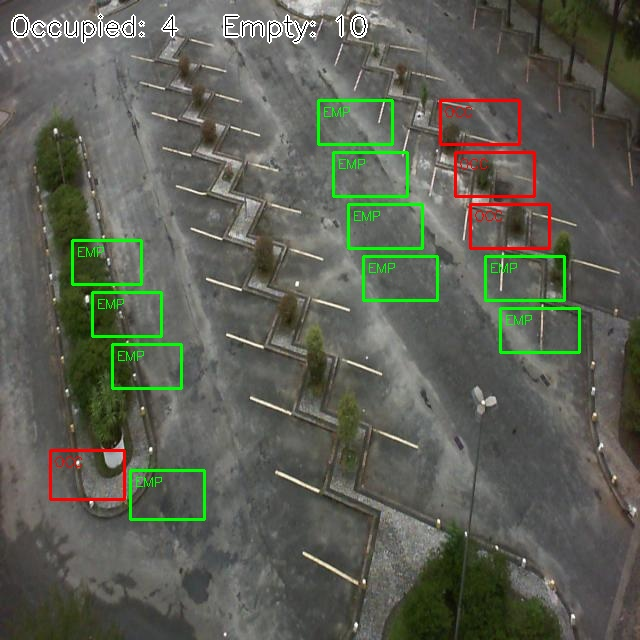
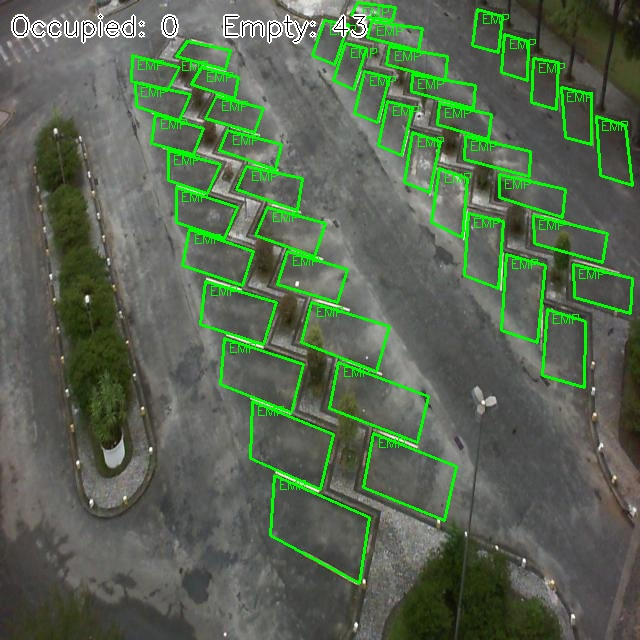
added new project: label tool to manually draw parking spots and output coordinates for hard coding the space coordinates in parking.cpp. updated ParkingSpace structure to Point for iregular rectangles.

diff --git a/label_tool/label_tool.cpp b/label_tool/label_tool.cpp
@@ -1,0 +1,110 @@
+#include <opencv2/opencv.hpp>
+#include <iostream>
+#include <vector>
+
+struct State {
+    cv::Mat display;
+    cv::Mat original;
+    std::vector<std::vector<cv::Point>> polys;  // completed spaces
+    std::vector<cv::Point> current;             // corners clicked so far
+};
+
+void redraw(State* s) {
+    s->display = s->original.clone();
+
+    // Instructions
+    cv::putText(s->display, "Click 4 corners per space (any order, go around the shape)",
+        { 8, 20 }, cv::FONT_HERSHEY_SIMPLEX, 0.5, { 255,255,255 }, 2);
+    cv::putText(s->display, "U = undo last space  |  S = print code  |  ESC = quit",
+        { 8, 40 }, cv::FONT_HERSHEY_SIMPLEX, 0.45, { 200,200,200 }, 1);
+
+    // Completed polys
+    for (int i = 0; i < (int)s->polys.size(); i++) {
+        cv::polylines(s->display, s->polys[i], true, { 0,255,0 }, 2);
+        cv::putText(s->display, std::to_string(i + 1),
+            { s->polys[i][0].x + 3, s->polys[i][0].y + 14 },
+            cv::FONT_HERSHEY_SIMPLEX, 0.45, { 0,255,0 }, 1);
+    }
+
+    // In-progress corners
+    for (int i = 0; i < (int)s->current.size(); i++) {
+        cv::circle(s->display, s->current[i], 4, { 255,255,0 }, -1);
+        if (i > 0)
+            cv::line(s->display, s->current[i - 1], s->current[i], { 255,255,0 }, 1);
+    }
+
+    cv::imshow("Label Tool", s->display);
+}
+
+void onMouse(int event, int x, int y, int, void* userdata) {
+    State* s = reinterpret_cast<State*>(userdata);
+
+    if (event == cv::EVENT_LBUTTONDOWN) {
+        s->current.push_back({ x, y });
+
+        if (s->current.size() == 4) {
+            s->polys.push_back(s->current);
+            s->current.clear();
+        }
+        redraw(s);
+    }
+
+    // Rubber band: show line from last clicked point to mouse
+    if (event == cv::EVENT_MOUSEMOVE && !s->current.empty()) {
+        redraw(s);
+        cv::line(s->display,
+            s->current.back(), { x, y },
+            { 255,255,0 }, 1);
+        cv::imshow("Label Tool", s->display);
+    }
+}
+
+int main(int argc, char* argv[]) {
+    if (argc < 2) {
+        std::cerr << "Usage: label_tool.exe <empty_lot_image>" << std::endl;
+        return 1;
+    }
+
+    State s;
+    s.original = cv::imread(argv[1]);
+    if (s.original.empty()) {
+        std::cerr << "Could not load: " << argv[1] << std::endl;
+        return 1;
+    }
+
+    cv::namedWindow("Label Tool");
+    cv::setMouseCallback("Label Tool", onMouse, &s);
+    redraw(&s);
+
+    while (true) {
+        int key = cv::waitKey(20);
+        if (key == 27) break;  // ESC
+
+        if (key == 'u' || key == 'U') {
+            if (!s.current.empty()) {
+                s.current.pop_back();   // undo last corner mid-polygon
+            }
+            else if (!s.polys.empty()) {
+                s.polys.pop_back();     // undo last completed polygon
+            }
+            redraw(&s);
+        }
+
+        if (key == 's' || key == 'S') {
+            std::cout << "\n// --- paste into parking.cpp ---\n";
+            std::cout << "std::vector<ParkingSpace> spaces = {\n";
+            for (const auto& poly : s.polys) {
+                std::cout << "    {{"
+                    << "{" << poly[0].x << "," << poly[0].y << "},"
+                    << "{" << poly[1].x << "," << poly[1].y << "},"
+                    << "{" << poly[2].x << "," << poly[2].y << "},"
+                    << "{" << poly[3].x << "," << poly[3].y << "}"
+                    << "}, false},\n";
+            }
+            std::cout << "};\n";
+            std::cout << "// " << s.polys.size() << " spaces total\n";
+        }
+    }
+
+    return 0;
+}

diff --git a/Project/parking.cpp b/Project/parking.cpp
@@ -19,7 +19,12 @@ static std::vector<ParkingSpace> getROIs_UFPR04() {
     std::vector<ParkingSpace> spaces;
     for (int y : ys)
         for (int x : xs)
-            spaces.push_back({ cv::Rect(x, y, w, h), false });
+            spaces.push_back({ {
+                {x,     y},
+                {x + w,   y},
+                {x + w,   y + h},
+                {x,     y + h}
+            }, false });
     return spaces;
 }
 
@@ -31,23 +36,57 @@ static std::vector<ParkingSpace> getROIs_UFPR04() {
 // Expect some mis-alignment — tune x/y/w/h against the actual images.
 // ---------------------------------------------------------------------------
 static std::vector<ParkingSpace> getROIs_PUCPR() {
-    std::vector<cv::Rect> rects = {
-        // Right column (diagonal spaces, stepping diagonally down-left)
-        cv::Rect(440, 100, 80, 45), cv::Rect(455, 152, 80, 45),
-        cv::Rect(470, 204, 80, 45), cv::Rect(485, 256, 80, 45),
-        cv::Rect(500, 308, 80, 45),
-        // Centre-right column
-        cv::Rect(318, 100, 75, 45), cv::Rect(333, 152, 75, 45),
-        cv::Rect(348, 204, 75, 45), cv::Rect(363, 256, 75, 45),
-        // Left-side lower column
-        cv::Rect(72, 240, 70, 45),  cv::Rect(92,  292, 70, 45),
-        cv::Rect(112, 344, 70, 45), cv::Rect(50,  450, 75, 50),
-        cv::Rect(130, 470, 75, 50),
+    std::vector<ParkingSpace> polys = {
+    {{{132,55},{179,67},{167,90},{131,81}}, false},
+    {{{135,82},{190,94},{179,120},{136,106}}, false},
+    {{{155,114},{203,128},{193,154},{151,143}}, false},
+    {{{168,150},{220,164},{207,193},{168,180}}, false},
+    {{{176,187},{237,207},{224,238},{176,222}}, false},
+    {{{189,229},{253,251},{242,285},{182,265}}, false},
+    {{{205,281},{276,302},{263,344},{200,324}}, false},
+    {{{224,338},{303,364},{291,412},{220,384}}, false},
+    {{{252,401},{333,434},{320,489},{250,458}}, false},
+    {{{274,475},{369,517},{359,583},{270,535}}, false},
+    {{{176,56},{187,41},{230,50},{225,69}}, false},
+    {{{201,67},{238,77},{234,98},{191,84}}, false},
+    {{{216,96},{263,108},{254,132},{205,118}}, false},
+    {{{227,130},{281,144},{275,169},{219,150}}, false},
+    {{{246,166},{302,178},{297,210},{236,189}}, false},
+    {{{267,207},{325,223},{314,256},{255,235}}, false},
+    {{{287,251},{347,269},{337,302},{277,284}}, false},
+    {{{311,302},{389,326},{376,371},{301,342}}, false},
+    {{{338,362},{428,396},{417,442},{329,408}}, false},
+    {{{373,433},{456,466},{444,520},{363,487}}, false},
+    {{{324,20},{348,24},{334,64},{312,55}}, false},
+    {{{345,43},{366,48},{353,89},{333,80}}, false},
+    {{{364,71},{389,77},{377,122},{354,113}}, false},
+    {{{387,101},{412,107},{401,155},{378,145}}, false},
+    {{{412,132},{440,141},{429,192},{404,182}}, false},
+    {{{439,168},{467,178},{462,237},{431,222}}, false},
+    {{{468,213},{503,221},{498,288},{464,275}}, false},
+    {{{506,254},{545,265},{537,342},{501,330}}, false},
+    {{{547,309},{585,321},{584,387},{542,375}}, false},
+    {{{357,2},{395,7},{392,20},{351,15}}, false},
+    {{{371,21},{422,28},{418,50},{367,37}}, false},
+    {{{389,46},{447,56},{445,80},{386,64}}, false},
+    {{{412,74},{475,85},{473,108},{411,91}}, false},
+    {{{439,103},{491,114},{488,139},{437,124}}, false},
+    {{{465,136},{530,151},{529,176},{464,159}}, false},
+    {{{499,174},{565,189},{562,217},{499,197}}, false},
+    {{{533,215},{607,233},{602,262},{534,243}}, false},
+    {{{573,264},{632,278},{630,313},{574,297}}, false},
+    {{{477,9},{502,16},{498,52},{472,45}}, false},
+    {{{504,34},{528,41},{527,80},{501,72}}, false},
+    {{{533,58},{558,62},{556,109},{531,102}}, false},
+    {{{561,87},{591,94},{591,144},{565,137}}, false},
+    {{{596,116},{625,125},{632,185},{600,175}}, false},
     };
+    // 43 spaces total
+    // 43 spaces total
 
     std::vector<ParkingSpace> spaces;
-    for (auto& r : rects)
-        spaces.push_back({ r, false });
+    for (auto& p : polys)
+        spaces.push_back({ p});
     return spaces;
 }
 
@@ -70,15 +109,31 @@ std::vector<ParkingSpace> getROIs(const std::string& imagePath) {
 
 void classifySpaces(const cv::Mat& blurred, std::vector<ParkingSpace>& spaces, int threshold) {
     cv::Rect imgBounds(0, 0, blurred.cols, blurred.rows);
+
     for (auto& space : spaces) {
+        
+        // get bounding rect of the polygon
+        cv::Rect bbox = cv::boundingRect(space.poly);
+        
         // Clamp to image bounds — prevents crash if any ROI extends outside
-        cv::Rect safe = space.roi & imgBounds;
+        cv::Rect safe = bbox & imgBounds;
         if (safe.empty()) { space.occupied = false; continue; }
 
+        // build a mask for the polygon within the bounding rect
+        cv::Mat mask = cv::Mat::zeros(safe.height, safe.width, CV_8UC1);
+        std::vector<cv::Point> shifted;
+        for (const auto& p : space.poly)
+            shifted.push_back(p - cv::Point(safe.x, safe.y));
+        cv::fillConvexPoly(mask, shifted, cv::Scalar(255));
+
+
+        // Canny
         cv::Mat roi = blurred(safe);
         cv::Mat edges;
         // Low=30/High=90: more sensitive than default, catches lower-contrast cars
         cv::Canny(roi, edges, 50, 150);
+        cv::bitwise_and(edges, mask, edges);
+
         int edgeCount = cv::countNonZero(edges);
         space.occupied = (edgeCount > threshold);
     }
@@ -89,10 +144,15 @@ void drawResults(cv::Mat& image, const std::vector<ParkingSpace>& spaces) {
         cv::Scalar color = space.occupied
             ? cv::Scalar(0, 0, 255)   // red  = occupied
             : cv::Scalar(0, 255, 0);  // green = empty
-        cv::rectangle(image, space.roi, color, 2);
+
+        // draw polygon outline
+        const std::vector<cv::Point>* pts = &space.poly;
+        cv::polylines(image, *pts, true, color, 2);
+
+        // add label
         std::string label = space.occupied ? "OCC" : "EMP";
         cv::putText(image, label,
-            cv::Point(space.roi.x + 4, space.roi.y + 16),
+            cv::Point(space.poly[0].x + 4, space.poly[0].y + 14),
             cv::FONT_HERSHEY_SIMPLEX, 0.45, color, 1);
     }
 }

diff --git a/Project/parking.h b/Project/parking.h
@@ -4,7 +4,7 @@
 #include <string>
 
 struct ParkingSpace {
-    cv::Rect roi;       // bounding box in the full image
+    std::vector<cv::Point> poly;       // bounding box in the full image
     bool occupied;
 };
 